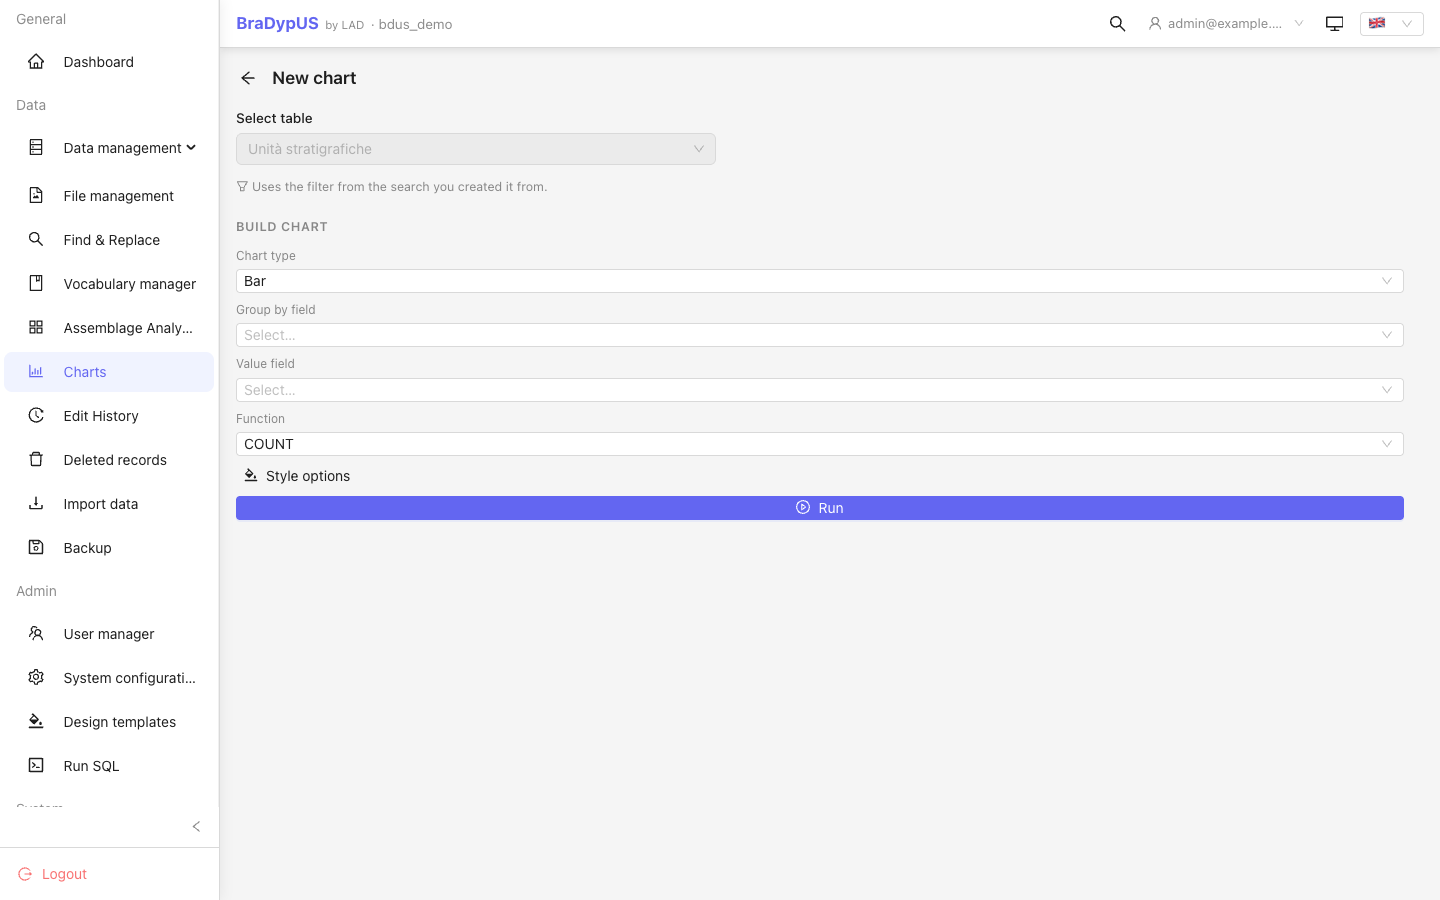
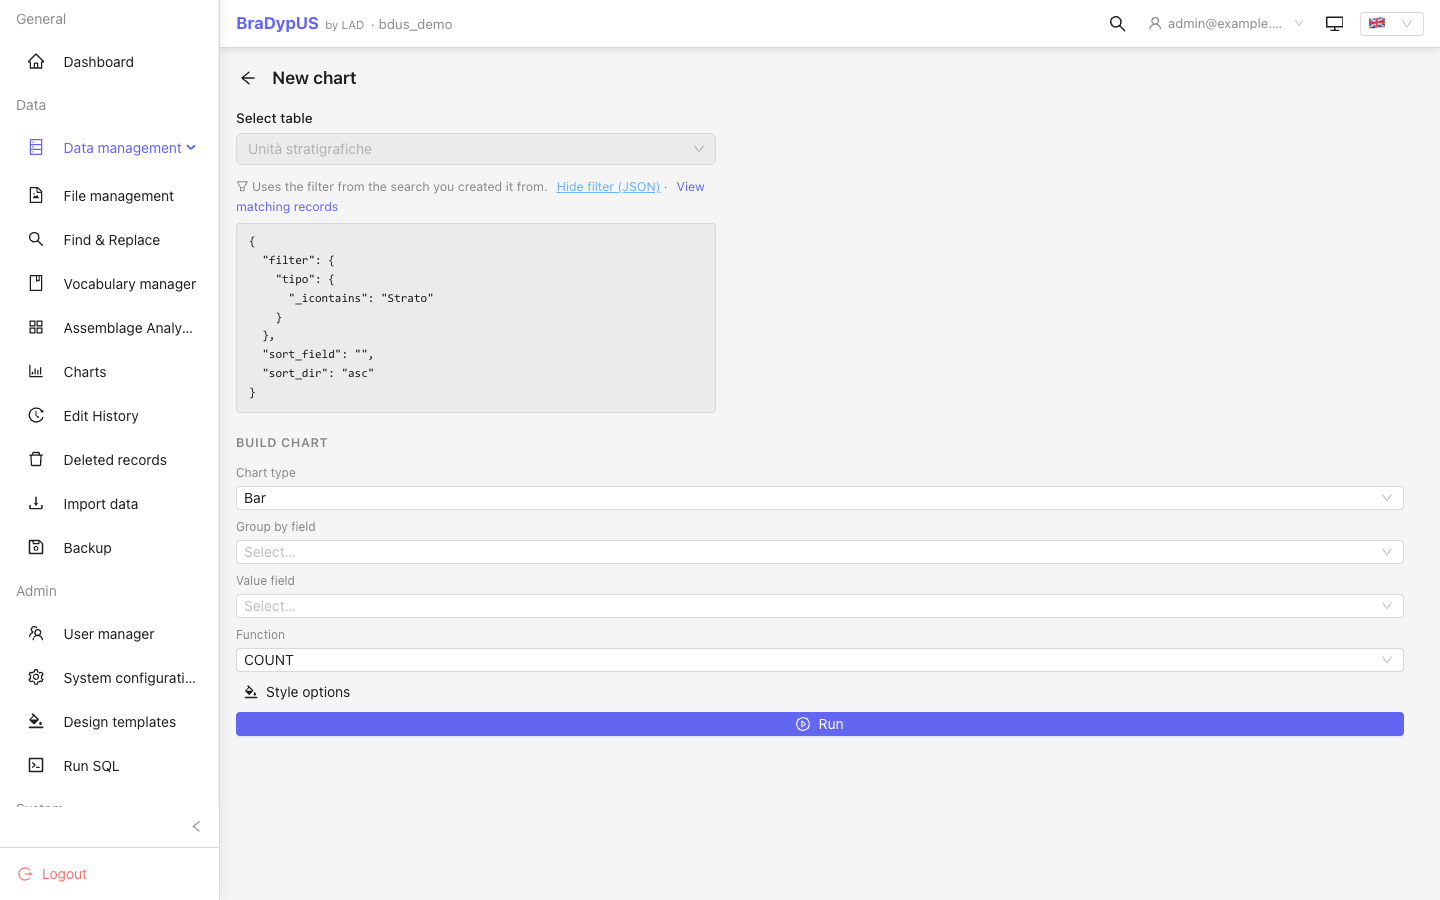
docs: bring the charts guide up to date with v5.12.2
Run button and globe/lock share icons on chart cards (the guide still
said "star icon"), dedicated per-chart URLs, and the "Show filter
(JSON)" / "View matching records" controls in the wizard. Re-shoots
chart-list.png and chart-from-search.png to show them.

Part of #70.

diff --git a/bdus-docs/guide/usage/charts.md b/bdus-docs/guide/usage/charts.md
@@ -12,10 +12,22 @@ Open the **Charts** entry in the main menu to see every chart available to
 you, run one, or create a new one — it's a full page of its own, not a panel
 tucked inside a table view.
 
-![Full-page list of saved charts, with a "New chart" button and per-chart edit/share/delete actions](/images/v5/usage/chart-list.png)
+![Full-page list of saved charts, with a "New chart" button and per-chart run/edit/share/delete actions](/images/v5/usage/chart-list.png)
 
-Click a chart's **name** to run it full-width. Owners get three extra
-actions on their own charts: edit, share/unshare, and delete.
+To run a chart full-width, click its **name** or the ▶ (**Run query**) button
+on its card. Owners get three extra actions on their own charts: edit,
+share/unshare, and delete.
+
+Every view has its own address, so a chart can be bookmarked or linked to
+directly, a page reload keeps you where you were, and the browser's back and
+forward buttons work as expected:
+
+| Page | Address |
+|---|---|
+| Chart list | `/{app}/charts` |
+| A chart, run full-width | `/{app}/charts/{id}` |
+| Editing a chart | `/{app}/charts/{id}/edit` |
+| Creating a chart | `/{app}/charts/new` |
 
 ## Creating a chart
 
@@ -45,7 +57,7 @@ every other search: open the table in **Data management**, run a fast,
 advanced, or SQL-expert search, then click the chart icon
 (**Create chart from this view**) in the search toolbar.
 
-![The wizard opened from a search: the table is locked and a note confirms the chart uses that search's filter](/images/v5/usage/chart-from-search.png)
+![The wizard opened from a search: the table is locked, a note confirms the chart uses that search's filter, and the filter itself is shown as JSON](/images/v5/usage/chart-from-search.png)
 
 The wizard opens pre-filled: the table is locked (it's implied by the search
 you came from) and a note confirms the chart will run against that same
@@ -53,6 +65,14 @@ filter. Everything else — type, fields, style — works exactly as for an
 unfiltered chart. A chart created this way keeps its filter for good; to
 change it, create a new chart from a different search rather than editing
 the filter in place.
+
+Because the filter is not editable, the wizard lets you check exactly what
+it does. Next to the note (and again when you later edit the saved chart):
+
+- **Show filter (JSON)** reveals the filter itself, as stored with the chart
+  (**Hide filter (JSON)** collapses it again);
+- **View matching records** opens Data management, in a new tab, with the same
+  filter applied, so you can see the records the chart is built from.
 
 A chart created without an active search (or via the plain **New chart**
 button) runs over every row of its table.
@@ -67,13 +87,15 @@ runs — nothing is cached from when it was saved.
 ## Sharing and access
 
 A new chart is **private**: only its creator sees it in the list. The owner
-can share it with all users of the application (star icon) and unshare it at
-any time. Shared charts can be run by anyone but edited or deleted only by
-their owner.
+can share it with all users of the application and unshare it at any time,
+using the toggle on the chart's card: a globe icon (**Share**) on a private
+chart, a lock icon (**Stop sharing**) on a shared one. Shared charts are
+marked with a share icon next to their name in the list and can be run by
+anyone, but edited or deleted only by their owner.
 
 ## Editing and deleting a chart
 
 Click the pencil icon on a chart you own to reopen the wizard, pre-filled
 with its current name, type, fields, and style — everything except the
-table and filter, which stay fixed from creation. Click **Delete** to remove
-a chart's definition; no record data is ever affected.
+table and filter, which stay fixed from creation. Click the trash icon and
+confirm to remove a chart's definition; no record data is ever affected.
